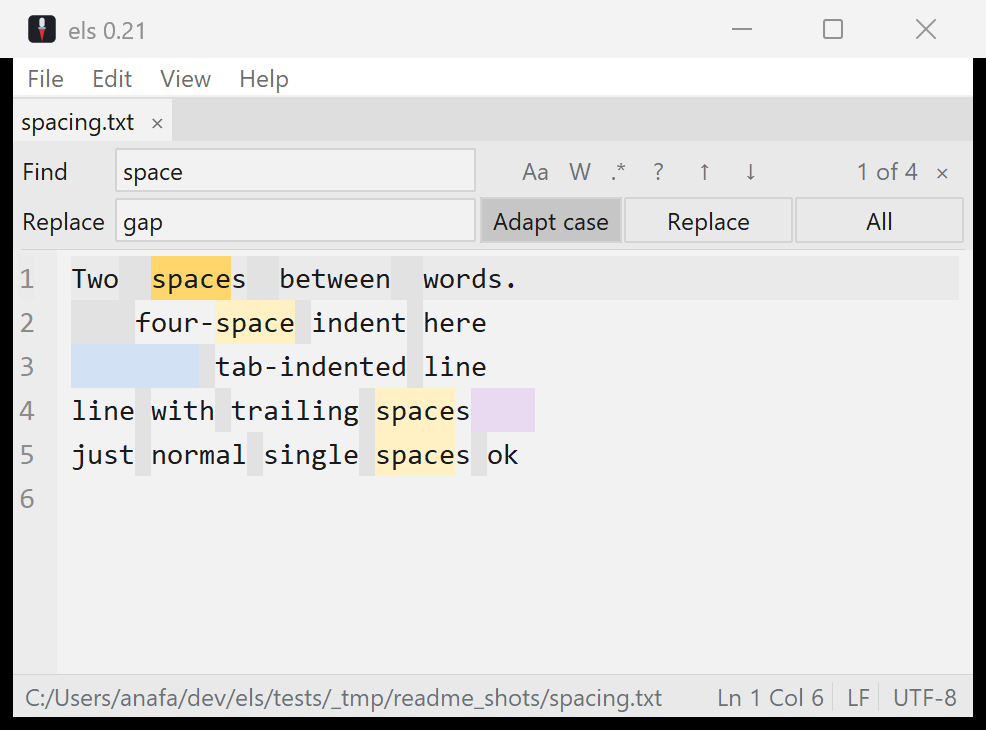
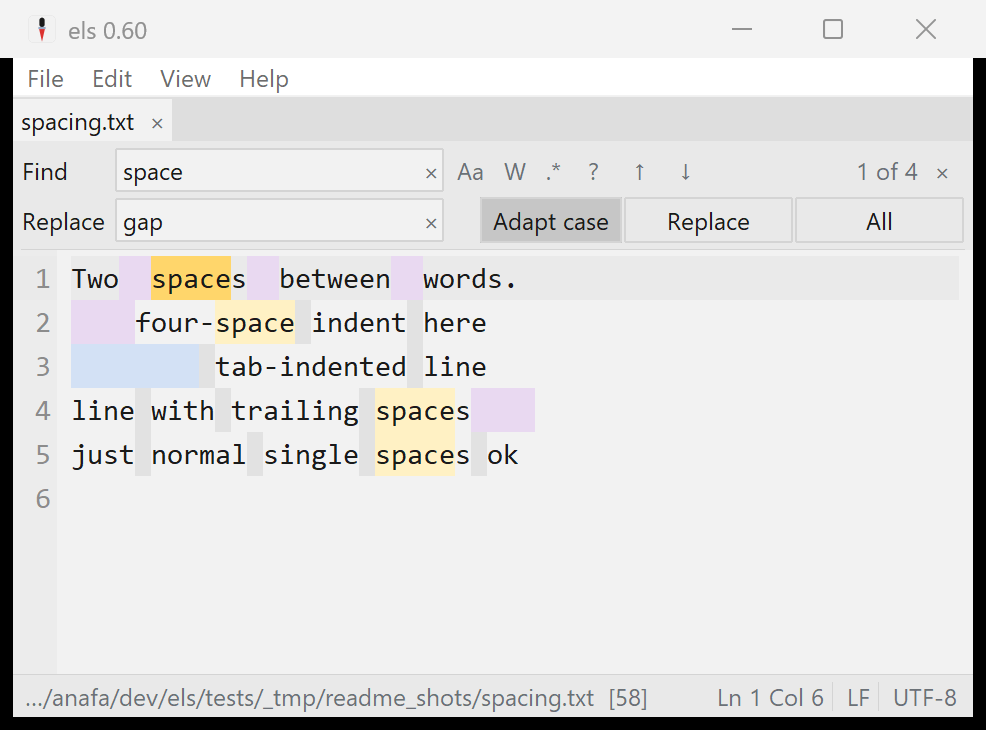
Release prep 0.60: version bump, data-safety docs, fresh screenshots
- els.tcl: version 0.60 (two natural numbers is the versioning scheme).
- README: a new "Data safety" section explaining atomic save, crash
  recovery, and the single-instance behaviour in plain language; intro
  and feature list updated (drag-to-reorder tabs, line-number toggle,
  CRLF default, wrapped-search indicator); winfs.c mentioned alongside
  icudet.c; version references bumped; em-dashes removed per the
  public-docs style rule.
- README screenshots regenerated via the shot harness: new icon in the
  title bar, "els 0.60", and the statusbar path-length indicator
  visible in the editor shot.

Suite 378/378; probe-exe fully green on the rebuilt 0.60 exe.

diff --git a/README.md b/README.md
@@ -6,10 +6,13 @@ A tiny text editor for Windows: calm, opinionated, no-frills.
 
 els is a clean editor for everyday text files: multi-file tabs, find & replace
 with real regex, word wrap, recent files, session restore, and charset
-auto-detection across 95 encodings. The look is deliberately quiet: a calm grey
-page, flat chrome, and a single precise caret. It ships as a self-contained
-native **`els.exe`** (~5.1 MB, zero non-system dependencies): a real Windows
-executable with Tcl/Tk 9 and its C23 extension compiled in.
+auto-detection across 95 encodings. It is built to never lose your text:
+saves are atomic, unsaved work is continuously crash-protected, and opening a
+file while els is running joins the existing window instead of spawning a
+second one (see [Data safety](#data-safety)). The look is deliberately quiet:
+a calm grey page, flat chrome, and a single precise caret. It ships as a
+self-contained native **`els.exe`** (~5.1 MB, zero non-system dependencies): a
+real Windows executable with Tcl/Tk 9 and its C23 extensions compiled in.
 
 The design is opinionated to the point of having few knobs: settings exist only
 where they protect flow, such as wrap, recents, session restore, and where to
@@ -33,17 +36,22 @@ in **Settings > Default apps**.
 
 ## Features
 
+- **Data safety, built in**: atomic saves that cannot truncate a file,
+  continuous crash protection for unsaved changes, and one editor window that
+  collects everything you open. Explained in [Data safety](#data-safety).
 - **Multi-file tabs**: each document keeps its own undo, selection and dirty
-  state under a flat tab strip.
+  state under a flat tab strip; drag a tab to reorder.
 - **Find & replace** (Ctrl+F / Ctrl+H): Tcl ARE regex with live match
   highlighting, Match Case / Whole Word / Regex, backreferences, an adapt-case
-  replace, search history, and a built-in regex reference.
+  replace, search history, a wrapped-search indicator, and a built-in regex
+  reference.
 - **Encoding & EOL**: auto-detected on open, preserved on save, shown in the
   status bar. All 95 Tcl encodings, BOM sniffing (UTF-8/16/32), and
   chardet-quality detection via the Windows system ICU. Click the encoding or
-  EOL indicator to reopen-with / convert.
+  EOL indicator to reopen-with / convert; new files use Windows line endings
+  (CRLF).
 - **Word wrap** with a line-number gutter that stays aligned across wrapped
-  lines; current-line highlight.
+  lines (View > Line Numbers to toggle, remembered); current-line highlight.
 - **Show Whitespace**: spaces, tabs and trailing whitespace in distinct subdued
   tints.
 - **Recent files & session restore**: a compact recent-files manager plus
@@ -52,10 +60,58 @@ in **Settings > Default apps**.
   across sessions (the font family is fixed: no picker, by design).
 - **File associations**: **Help > File Associations...** registers els with
   Windows as an app that can open files (it never seizes a type's default). els
-  then appears in Explorer's **Open with** menu — point any type at it with
+  then appears in Explorer's **Open with** menu; point any type at it with
   **Open with > Always**, and manage defaults in **Settings > Default apps**.
 - **Go to line**, **Always on Top**, window- and zoom-level persistence,
   portable/profile `els.conf`, the els look and the awl icon.
+
+## Data safety
+
+A text editor's one unforgivable failure is losing text. els defends against
+that with three mechanisms that work together. None of them needs setup, and
+none of them ever writes into your files on its own.
+
+**Atomic save.** els never overwrites a file in place. A save first writes the
+complete new content to a temporary file in the same folder; only when every
+byte is on disk does it swap the temporary file over the original, in one
+atomic step (Windows' `ReplaceFileW`, which also carries over the file's
+permissions, alternate data streams such as the mark-of-the-web, and creation
+time). The old in-place style of saving has a failure window: if the process
+dies or the disk fills after a file has been truncated but before the new
+content lands, the file is simply gone. With atomic save that window does not
+exist. A save either fully succeeds or leaves the original exactly as it was;
+the worst a crash mid-save can cost you is that one save attempt.
+
+**Crash recovery.** Between saves, your unsaved changes exist only in memory,
+which is exactly what a crash, a forced reboot, or a power cut destroys. So
+while you edit, els continuously snapshots every modified document into a
+small swap file (in a `swap` folder next to `els.conf`): a snapshot is taken
+about every two seconds, and shortly after each pause in typing. Documents
+with nothing unsaved have no swap file; saving or closing a document removes
+its snapshot, because the file on disk is then the truth. If els ends
+abnormally, those snapshots survive. The next start detects them, checks each
+against the current file on disk, and offers everything in one dialog. Each
+item you choose to recover opens as an ordinary unsaved tab, marked
+"(recovered)", for you to inspect and then save or discard. Recovery never
+touches the files themselves; it only brings text back into the editor, and it
+tells you when a file changed on disk since the snapshot so you can decide
+which version wins. Untitled notes that were never saved anywhere are
+protected the same way. Snapshots are also crash-consistent themselves: they
+are written atomically and verified with a checksum, so a half-written
+snapshot is discarded rather than trusted.
+
+**Single instance.** Opening a file "with els" while els is already running
+does not start a second editor. The new launch notices the running one, hands
+the file over, and exits; your existing window opens it as a new tab and comes
+to the front. One window means one session, one recent-files list, and one
+place where unsaved work lives, which keeps the two mechanisms above simple
+and predictable. The handoff is also why two instances cannot quietly fight
+over the same file with last-save-wins. If you deliberately want independent
+instances, set the environment variable `ELS_NO_SINGLE_INSTANCE=1` for the
+extra launch: the safety layer was designed for that case too, so each
+instance keeps its own protected snapshots (a live instance's snapshots are
+guarded by a lock that Windows releases only when that process is truly
+gone, so one instance can never "recover" another's open work).
 
 ![Find and replace with visible whitespace](docs/img/find-whitespace-0.21.png)
 
@@ -110,8 +166,10 @@ as ordinary commands. The native `els.exe` **statically links its extension in**
 (via the `Tcl_AppInit` in `src/els_main.c`); in development each `src/*.c` also
 builds as a stubs `.dll` (`x build-ext`; see `src/elsx.c`). A real example,
 **`src/icudet.c`**, dynamically loads the Windows system ICU (`icu.dll`) to expose
-its charset detector to Tcl — the basis of els's encoding auto-detection — and is
-the one extension compiled into the shipped exe. Tests live in `tests/elsx.test`.
+its charset detector to Tcl (the basis of els's encoding auto-detection); it is
+compiled into the shipped exe together with **`src/winfs.c`**, the Win32 helper
+behind atomic saves and the crash-recovery liveness locks. Tests live in
+`tests/elsx.test` and `tests/winfs.test`.
 
 ## About
 
@@ -119,7 +177,7 @@ the one extension compiled into the shipped exe. Tests live in `tests/elsx.test`
 
 els = Dutch for *awl*, a small, sharp tool. It's a single-file Windows editor;
 the source and the build recipe are both in this repo, so you can read it, fork
-it, or build it yourself. Currently **v0.50**: a working editor, evolving.
+it, or build it yourself. Currently **v0.60**: a working editor, evolving.
 
 Built on **Tcl/Tk 9.0.3**. © 2026 Vincent Vercauteren. **MIT** licensed; see
 [`LICENSE`](LICENSE).
